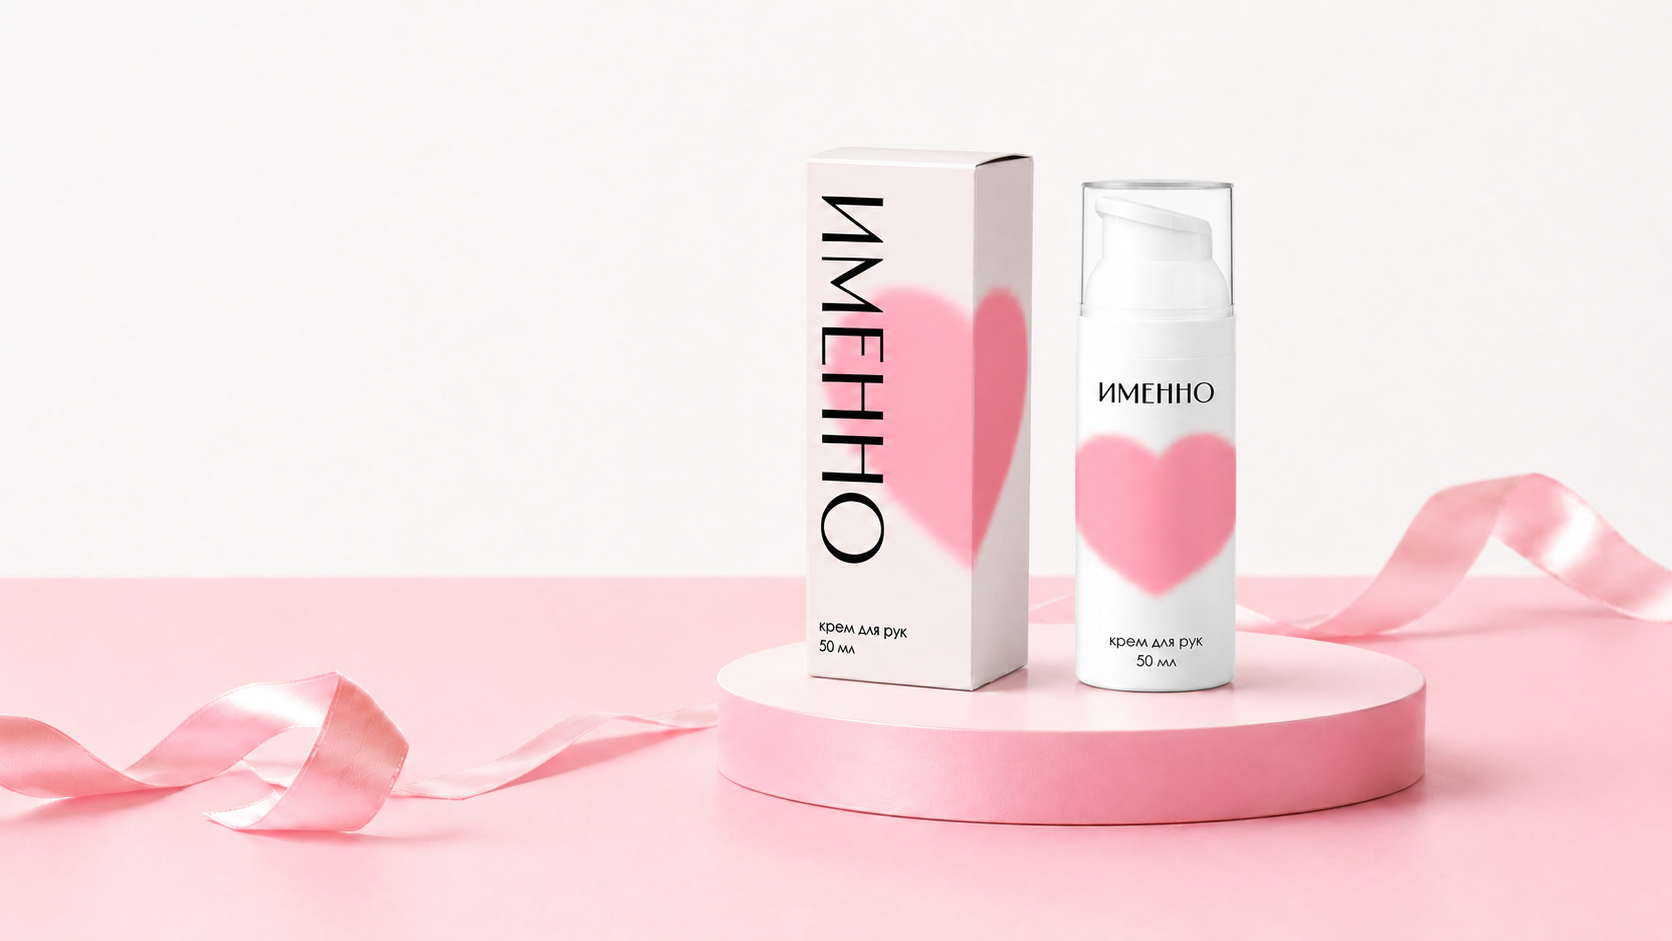
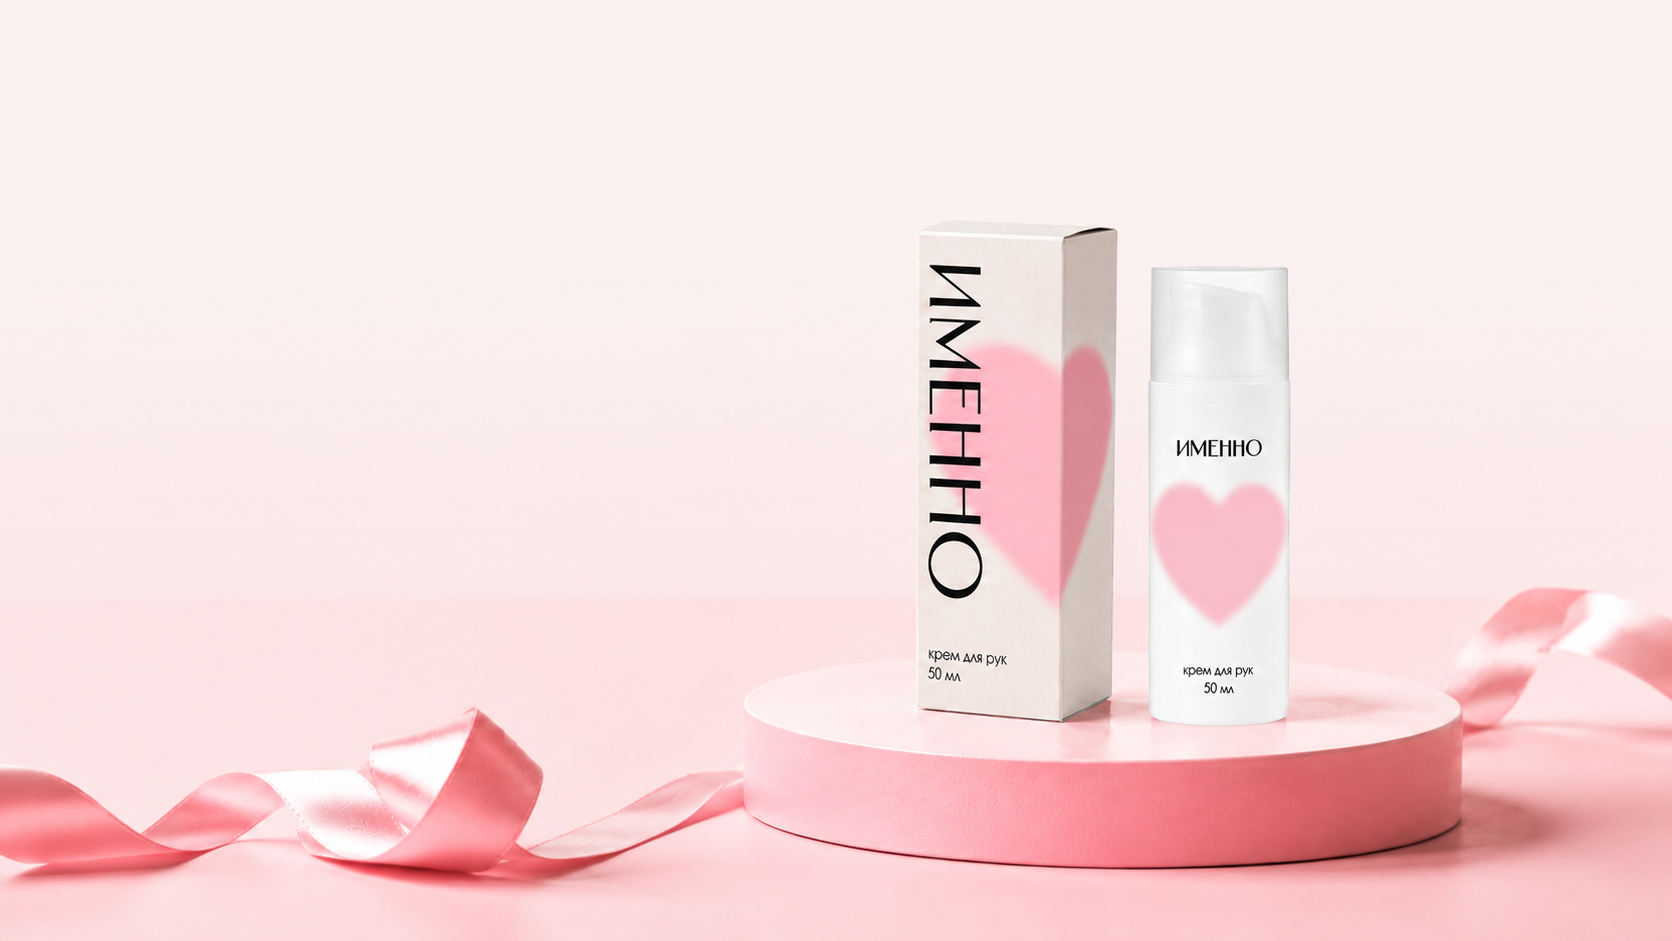
Update hero image and name positioning

Changed region(s): [[0.0, 0.1541, 1.0, 0.9554], [0.7464, 0.2774, 0.7775, 0.4006]]

diff --git a/src/styles.css b/src/styles.css
@@ -255,16 +255,16 @@ p {
   position: absolute;
   z-index: 1;
   left: 50%;
-  top: 0;
+  top: -105px;
   bottom: auto;
   width: 100vw;
   height: auto;
   transform: translateX(-50%);
   pointer-events: none;
 
-  --name-left: 68.7%;
-  --name-top: 52.8%;
-  --name-rotate: -7deg;
+  --name-left: 72.6%;
+--name-top: 56.5%;
+--name-rotate: -5deg;
 }
 
 .hero-bg {
@@ -1197,8 +1197,8 @@ p {
     bottom: auto;
     transform: translateX(-50%);
 
-    --name-left: 69%;
-    --name-top: 52.8%;
+  --name-left: 72.6%;
+--name-top: 56.5%;
   }
 
   .hero-content {
@@ -1383,9 +1383,9 @@ p {
     transform: translateX(-50%);
     animation: none;
 
-    --name-left: 68.7%;
-    --name-top: 52.8%;
-    --name-rotate: -7deg;
+  --name-left: 72.6%;
+--name-top: 56.5%;
+--name-rotate: -5deg;
   }
 
   .hero-bg {

diff --git a/src/App.tsx b/src/App.tsx
@@ -5,14 +5,15 @@ import { AnimatePresence, motion, type Variants } from "framer-motion";
 const asset = (name: string) => `/assets/${name}`;
 
 const heroNames = [
-  "Алина",
-  "Катя",
-  "София",
+  "Анна",
   "Мария",
-  "Алиса",
-  "Полина",
-  "Вика",
-  "Дарья"
+  "Елена",
+  "Наталья",
+  "Ольга",
+  "Юлия",
+  "Дарья",
+  "София",
+  "Ирина"
 ];
 
 const bottles = [
